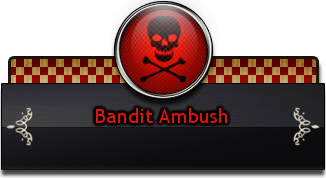
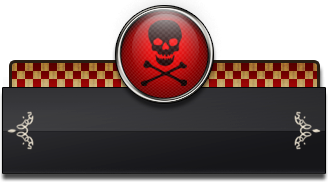
Added unhandled exception window

Changed region(s): [[0.0, 0.0, 1.0, 0.9831]]

diff --git a/MabiCommerce/UI/UnhandledException.xaml b/MabiCommerce/UI/UnhandledException.xaml
@@ -1,0 +1,16 @@
+<Window x:Class="MabiCommerce.UI.UnhandledException"
+        xmlns="http://schemas.microsoft.com/winfx/2006/xaml/presentation"
+        xmlns:x="http://schemas.microsoft.com/winfx/2006/xaml"
+        xmlns:d="http://schemas.microsoft.com/expression/blend/2008"
+        xmlns:mc="http://schemas.openxmlformats.org/markup-compatibility/2006"
+        xmlns:local="clr-namespace:MabiCommerce.UI"
+        mc:Ignorable="d"
+        Title="Oops!" Height="300" Width="300">
+    <Grid>
+        <Grid.RowDefinitions>
+			<RowDefinition Height="Auto" />
+			<RowDefinition Height="*" />
+		</Grid.RowDefinitions>
+        <Image Source="Images/BanditAmbush.png" Stretch="None" />
+    </Grid>
+</Window>

diff --git a/MabiCommerce/UI/UnhandledException.xaml.cs b/MabiCommerce/UI/UnhandledException.xaml.cs
@@ -1,0 +1,27 @@
+using System;
+using System.Collections.Generic;
+using System.Linq;
+using System.Text;
+using System.Threading.Tasks;
+using System.Windows;
+using System.Windows.Controls;
+using System.Windows.Data;
+using System.Windows.Documents;
+using System.Windows.Input;
+using System.Windows.Media;
+using System.Windows.Media.Imaging;
+using System.Windows.Shapes;
+
+namespace MabiCommerce.UI
+{
+	/// <summary>
+	/// Interaction logic for UnhandledException.xaml
+	/// </summary>
+	public partial class UnhandledException : Window
+	{
+		public UnhandledException()
+		{
+			InitializeComponent();
+		}
+	}
+}
